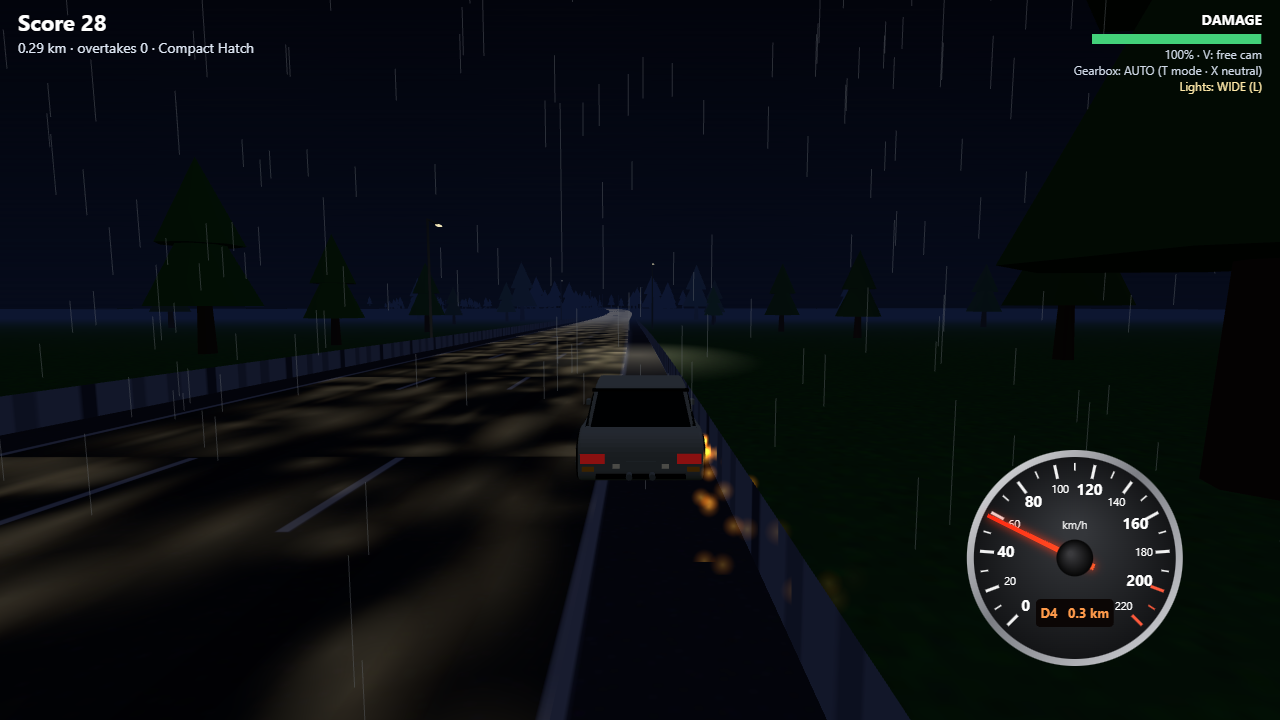
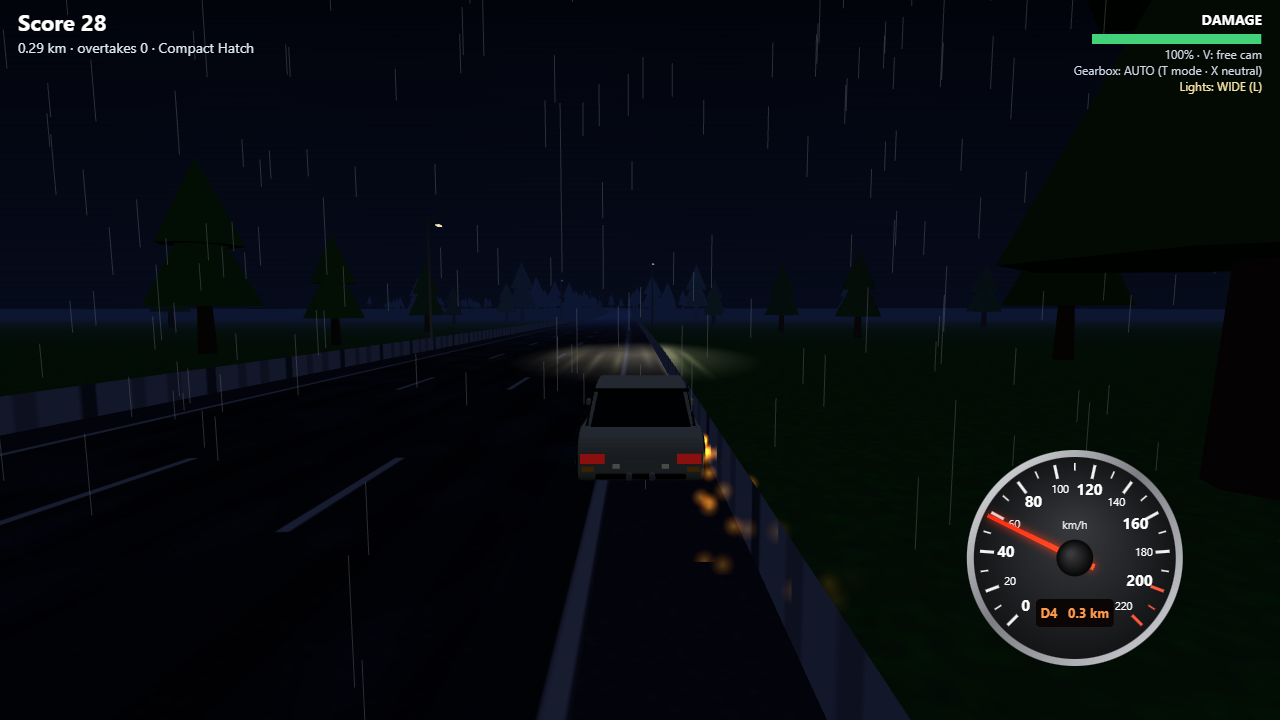
Add rim designs for Muscle GT, Sports Coupe, and Hypercar
- Implemented rim face drawing logic using canvas for three car models.
- Defined unique designs with properties such as shine, specular, brake, and caliper colors.
- Created a function to generate rim faces and corresponding materials for Three.js.

diff --git a/src/cars/rims.js b/src/cars/rims.js
@@ -1,0 +1,58 @@
+// Rim faces for the Muscle GT, Sports Coupe and Hypercar, drawn once on a canvas. The spokes are opaque and the gaps
+// transparent, so the brake disc and the brake caliper show through (the disc colour comes with the design). Each design is shared by every wheel that uses it.
+import * as THREE from '../three.js';
+
+const C = 128;                                                   // canvas centre; the face is 256 x 256 and the rim lip reaches r = 124
+const at = (r, a) => [C + r*Math.cos(a), C + r*Math.sin(a)];     // polar to canvas point
+function seg(x, [r0,a0], [r1,a1], w, col){ const [x0,y0]=at(r0,a0), [x1,y1]=at(r1,a1); x.strokeStyle=col; x.lineWidth=w; x.lineCap='round'; x.beginPath(); x.moveTo(x0,y0); x.lineTo(x1,y1); x.stroke(); }
+function ring(x, r, w, col){ x.strokeStyle=col; x.lineWidth=w; x.beginPath(); x.arc(C,C,r,0,Math.PI*2); x.stroke(); }
+function disc(x, r, col, cx=C, cy=C){ x.fillStyle=col; x.beginPath(); x.arc(cx,cy,r,0,Math.PI*2); x.fill(); }
+function nuts(x, r, size, col){ for (let i=0;i<5;i++){ const [px,py]=at(r, i*Math.PI*2/5 - Math.PI/2); disc(x,size,col,px,py); } }
+
+// brake: the colour of the disc behind the spokes; caliper: its colour, or null for none
+const DESIGNS = {
+  // Muscle GT: glossy blue barrel, gloss black face with five big round openings, no caliper showing
+  swirl: { shine:90, specular:0xaaaaaa, caliper:null, brake:'#1b1c20', draw(x){
+    disc(x,100,'#0c0c0e');
+    x.globalCompositeOperation = 'destination-out';                           // cut the five openings out of the black face
+    for (let i=0;i<5;i++){ const [px,py] = at(64, i*Math.PI*2/5 - Math.PI/2 + .1); disc(x,34,'#000',px,py); }
+    x.globalCompositeOperation = 'source-over';
+    ring(x,111,22,'#1e9bf0'); ring(x,120,3,'#9bdcff'); ring(x,100,2,'#0a6fb8');
+    disc(x,24,'#0c0c0e'); ring(x,24,2.5,'#c9cbd0'); nuts(x,15,3.5,'#3a3c42');
+  }},
+  // Sports Coupe: matte gold, five forked spokes, wide lip, centre-lock hub, no caliper showing
+  forged: { shine:25, specular:0x665533, caliper:null, brake:'#1b1c20', draw(x){
+    const GOLD = '#b8985a', HI = '#dcc183';
+    ring(x,114,18,GOLD); ring(x,123,3,HI); ring(x,102,3,HI);
+    for (let i=0;i<5;i++){
+      const a = i*Math.PI*2/5 - Math.PI/2;
+      seg(x,[20,a],[54,a],18,GOLD);
+      seg(x,[54,a],[108,a-.32],9,GOLD); seg(x,[54,a],[108,a+.32],9,GOLD);       // the fork
+    }
+    disc(x,30,GOLD); disc(x,21,'#111214'); ring(x,21,2.5,HI);
+  }},
+  // Hypercar: matte black, ten thin spokes that fork near the rim, steel brake disc, red caliper
+  twin: { shine:20, specular:0x333333, caliper:0xd01818, brake:'#7d8087', draw(x){
+    const BLACK = '#18191c', EDGE = '#3c3e44';
+    ring(x,116,14,BLACK); ring(x,122,2,EDGE); ring(x,100,4,BLACK);
+    for (let i=0;i<10;i++){
+      const a = i*Math.PI/5;
+      seg(x,[24,a],[70,a],9,BLACK);
+      seg(x,[70,a],[108,a-.17],6,BLACK); seg(x,[70,a],[108,a+.17],6,BLACK);   // the fork
+    }
+    disc(x,26,BLACK); ring(x,26,3,'#c9cbd0'); disc(x,14,'#2a2b2f');
+  }},
+};
+
+const built = {};
+export function rimFace(name){
+  if (built[name]) return built[name];
+  const d = DESIGNS[name], c = document.createElement('canvas'); c.width = c.height = 256;
+  d.draw(c.getContext('2d'));
+  const map = THREE.canvasTexture(c); map.anisotropy = 4;
+  return (built[name] = {
+    face: new THREE.MeshPhongMaterial({map, transparent:true, alphaTest:.15, shininess:d.shine, specular:d.specular}),
+    brake: new THREE.MeshLambertMaterial({color:d.brake}),
+    caliper: d.caliper === null ? null : new THREE.MeshLambertMaterial({color:d.caliper}),
+  });
+}

diff --git a/src/render/headlights.js b/src/render/headlights.js
@@ -18,10 +18,26 @@ const HL = (function(){
   const poolG = new THREE.Object3D(); scene.add(poolG);
   const poolMat = new THREE.MeshBasicMaterial({map:radTex('rgba(255,240,190,1)','rgba(255,240,190,0)'), transparent:true, opacity:.4, blending:THREE.AdditiveBlending, depthWrite:false});
   const pool = new THREE.Mesh(new THREE.PlaneGeometry(1,1), poolMat); pool.rotation.x = -Math.PI/2; pool.position.y = .06; pool.visible=false; poolG.add(pool);
+  // On a wet road the beam also leaves long thin reflections stretched along the road; they fade out towards every edge
+  // of the pool, so they only ever show inside the beam.
+  const glintTex = (() => {
+    const c = document.createElement('canvas'); c.width = 128; c.height = 256; const x = c.getContext('2d');
+    for (let i=0;i<26;i++){
+      const sx = 8+Math.random()*112, w = 1.5+Math.random()*4, y0 = Math.random()*120, len = 90+Math.random()*130;
+      const g = x.createLinearGradient(0,y0,0,y0+len); g.addColorStop(0,'rgba(255,236,190,0)'); g.addColorStop(.5,`rgba(255,236,190,${.25+Math.random()*.45})`); g.addColorStop(1,'rgba(255,236,190,0)');
+      x.fillStyle = g; x.fillRect(sx-w/2, y0, w, len);
+    }
+    x.globalCompositeOperation = 'destination-in';
+    const m = x.createRadialGradient(64,128,0,64,128,128); m.addColorStop(0,'#fff'); m.addColorStop(.6,'rgba(255,255,255,.6)'); m.addColorStop(1,'rgba(255,255,255,0)');
+    x.setTransform(.5,0,0,1,32,0); x.fillStyle = m; x.fillRect(0,0,256,256);          // squashed to an ellipse that fits the 128 x 256 canvas
+    const t = THREE.canvasTexture(c); return t;
+  })();
+  const glintMat = new THREE.MeshBasicMaterial({map:glintTex, transparent:true, opacity:0, blending:THREE.AdditiveBlending, depthWrite:false});
+  const glint = new THREE.Mesh(new THREE.PlaneGeometry(1,1), glintMat); glint.rotation.x = -Math.PI/2; glint.position.y = .08; glint.visible = false; poolG.add(glint);
   const glowTex = radTex('rgba(255,246,210,1)','rgba(255,246,210,0)');
   const glows = [0,1].map(()=>{ const sp = new THREE.Sprite(new THREE.SpriteMaterial({map:glowTex, transparent:true, blending:THREE.AdditiveBlending, depthWrite:false, opacity:.8})); sp.visible=false; scene.add(sp); return sp; });
   const spots = [0,1].map(()=>{ const l = new THREE.SpotLight(0xfff0cc, 0, 60, .6, .6, 1); scene.add(l, l.target); return l; });
-  return {cones, poolG, pool, poolMat, glows, spots};
+  return {cones, poolG, pool, poolMat, glint, glintMat, glows, spots};
 })();
 const _hv = new THREE.Vector3();
 export function updateHeadlights(Hc, sl){
@@ -49,4 +65,7 @@ export function updateHeadlights(Hc, sl){
   }
   HL.pool.visible = on;
   if (on){ placeOn(HL.poolG, S.s+P.poolD, S.d, S.psi); HL.pool.scale.set(P.poolW, P.poolL, 1); HL.poolMat.opacity = P.poolO; }
+  const wet = S.rain*(1-S.mist)*S.dark;                                                // reflections need rain and a dark sky
+  HL.glint.visible = on && wet > .02;
+  if (HL.glint.visible){ HL.glint.scale.set(P.poolW*.9, P.poolL*1.25, 1); HL.glintMat.opacity = .75*wet; }
 }

diff --git a/src/world/track.js b/src/world/track.js
@@ -55,9 +55,11 @@ const rbRoad = makeRibbon(mk(roadTex)), rbGL = makeRibbon(mk(grassTex)), rbGR = 
 const sheenTex = makeTex(128,256,(x,w,h)=>{
   x.fillStyle='#000'; x.fillRect(0,0,w,h);
   for (let i=0;i<70;i++){
-    const cx=Math.random()*w, cy=Math.random()*h, rw=3+Math.random()*14, rh=10+Math.random()*50;
-    const g=x.createRadialGradient(cx,cy,0,cx,cy,rh); g.addColorStop(0,`rgba(255,255,255,${.25+Math.random()*.5})`); g.addColorStop(1,'rgba(255,255,255,0)');
-    x.save(); x.translate(cx,cy); x.scale(rw/rh,1); x.translate(-cx,-cy); x.fillStyle=g; x.fillRect(cx-rh,cy-rh,rh*2,rh*2); x.restore();
+    const cx=Math.random()*w, y0=Math.random()*h, rw=3+Math.random()*14, rh=10+Math.random()*50, a=.25+Math.random()*.5;
+    for (const cy of [y0-h, y0, y0+h]){                    // drawn again one tile up and down so the texture repeats without a seam
+      const g=x.createRadialGradient(cx,cy,0,cx,cy,rh); g.addColorStop(0,`rgba(255,255,255,${a})`); g.addColorStop(1,'rgba(255,255,255,0)');
+      x.save(); x.translate(cx,cy); x.scale(rw/rh,1); x.translate(-cx,-cy); x.fillStyle=g; x.fillRect(cx-rh,cy-rh,rh*2,rh*2); x.restore();
+    }
   }
 }, false);
 const sheenMat = new THREE.MeshBasicMaterial({map:sheenTex, vertexColors:true, transparent:true, blending:THREE.AdditiveBlending, depthWrite:false, fog:false, side:THREE.DoubleSide});
@@ -73,22 +75,16 @@ rbSheen.m.visible = false;
 }
 
 // These materials ignore lights, so darkness (0 day .. 1 night) is a colour multiplier on their textures
-// (linear values: a dim, blue moonlit ground). Rain darkens the road (wet) more than the grass.
+// (linear values: a dim, blue moonlit ground). Rain darkens the road (wet) more than the grass, and the sheen
+// reflects the horizon sky (fog colour), so it fades to nothing at night; mist hides it.
 export function setGroundShade(dark, rain, mist){
   const overcast = Math.max(rain*.8, mist), grass = 1 - .25*overcast;
   for (const rb of [rbRoad,rbGL,rbGR,rbRL,rbRR]){
     const k = (rb === rbRoad ? 1 - .45*rain : grass) * (rb === rbRoad ? 1 - .15*mist : 1);
     rb.m.material.color.setRGB((1+(.018-1)*dark)*k, (1+(.023-1)*dark)*k, (1+(.056-1)*dark)*k);
   }
-}
-// The sheen reflects the horizon sky; at night, with the headlights on, it also reflects their warm light down the beam.
-// Called every frame because the L key changes it without any change in the weather.
-const HEADLIGHT_GLINT = new THREE.Color(0xffe6a8);
-export function setSheen(dark, rain, mist, headlightsOn){
   rbSheen.m.visible = rain > .01;
-  sheenMat.color.copy(scene.fog.color);
-  if (headlightsOn){ const k = .55*dark; sheenMat.color.r += HEADLIGHT_GLINT.r*k; sheenMat.color.g += HEADLIGHT_GLINT.g*k; sheenMat.color.b += HEADLIGHT_GLINT.b*k; }
-  sheenMat.color.multiplyScalar(.9*rain*(1-mist));
+  sheenMat.color.copy(scene.fog.color).multiplyScalar(.9*rain*(1-mist));
 }
 function setRow(rb,k,a,b,c,d,e,f,u0,u1,v){
   const p=rb.pos; let o=k*6; p[o]=a;p[o+1]=b;p[o+2]=c;p[o+3]=d;p[o+4]=e;p[o+5]=f;

diff --git a/src/cars/build-car.js b/src/cars/build-car.js
@@ -3,12 +3,16 @@
 import * as THREE from '../three.js';
 import { extrudeProfile, taperX, lerpN, bez, roundRect, ribbon } from './shapes.js';
 import { addBonnetUnderside, addEngineBay, addHyperEngine } from './engine-bay.js';
+import { rimFace } from './rims.js';
 
 const _tireG = {}, _tireM = new THREE.MeshLambertMaterial({color:0x0b0b0d});
-function addWheel(g, sx, z, hw, wr, ww, rimCol){
+const RIM_DESIGN = {muscle:'swirl', coupe:'forged', super:'twin'};      // the other cars keep the plain five-spoke rim
+function addWheel(g, sx, z, hw, wr, ww, rimCol, design){
   const key = wr+'_'+ww;
   if (!_tireG[key]){
     _tireG[key] = {
+      face: new THREE.CircleGeometry(wr*.88,48).rotateY(Math.PI/2),     // rim face, normal along +x
+      caliper: new THREE.BoxGeometry(.014, wr*.3, wr*.42),
       tire: new THREE.CylinderGeometry(wr,wr,ww,24).rotateZ(Math.PI/2),
       disc: new THREE.CylinderGeometry(wr*.7,wr*.7,ww+.02,20).rotateZ(Math.PI/2),
       cap : new THREE.CylinderGeometry(wr*.13,wr*.13,ww+.04,10).rotateZ(Math.PI/2),
@@ -19,8 +23,13 @@ function addWheel(g, sx, z, hw, wr, ww, rimCol){
   const dark = new THREE.MeshLambertMaterial({color:0x1b1c20});
   const o = new THREE.Group(); o.position.set(sx*hw, wr, z);
   const w = new THREE.Group(); o.add(w);          // w spins, o steers
-  w.add(new THREE.Mesh(G.tire,_tireM), new THREE.Mesh(G.disc,dark), new THREE.Mesh(G.cap,rimM));
-  for (let i=0;i<5;i++){
+  const R = design && rimFace(design);
+  w.add(new THREE.Mesh(G.tire,_tireM), new THREE.Mesh(G.disc, R ? R.brake : dark), new THREE.Mesh(G.cap,rimM));
+  if (design){
+    const face = new THREE.Mesh(G.face, R.face);
+    face.position.x = sx*(ww/2+.026); if (sx<0) face.rotation.y = Math.PI; w.add(face);
+    if (R.caliper){ const cal = new THREE.Mesh(G.caliper, R.caliper); cal.position.set(sx*(ww/2+.017), wr*.3, wr*.32); o.add(cal); }   // on o: it steers but does not spin
+  } else for (let i=0;i<5;i++){
     const a = new THREE.Group(); a.rotation.x = i*Math.PI*2/5;
     const sp = new THREE.Mesh(G.spoke, rimM); sp.position.set(sx*(ww/2+.012), wr*.34, 0); a.add(sp); w.add(a);
   }
@@ -144,7 +153,7 @@ export function buildCar(sp, color, opt){
   const archR = Math.min(wr+.045, yT-nd*.5-(wr+.02)-.01);
   for (const sx of [-1,1]) for (const sz of [-1,1]){
     const hw = sz<0 ? hwR : hwF;
-    const wh = addWheel(g, sx, sz*wz, hw, wr, ww, sp.rim); wh.front = sz>0; wheels.push(wh);
+    const wh = addWheel(g, sx, sz*wz, hw, wr, ww, sp.rim, RIM_DESIGN[k]); wh.front = sz>0; wheels.push(wh);
     const a = new THREE.Mesh(new THREE.CircleGeometry(archR,22), M(0x050505));
     a.position.set(sx*(hw+.06+.012), wr+.02, sz*wz); a.rotation.y = sx*Math.PI/2; g.add(a);
   }

diff --git a/src/audio/engine-sound.js b/src/audio/engine-sound.js
@@ -8,7 +8,7 @@ const SND = {   // t: waveforms, g: osc gains, m: frequency multipliers, cb/ck/c
   sedan :{t:['triangle','sawtooth','sine'],     g:[.45,.12,.40], m:[2,1,4],   cb:350,ck:.28,ct:500,  vol:.75, drive:3,  q:.8,  lf:12, rough:.02},   // smooth, quiet 4-cyl
   muscle:{t:['sawtooth','square','triangle'],   g:[.45,.25,.35], m:[1,.5,2],   cb:180,ck:.17,ct:700,  vol:1.0, drive:14, q:1.6, lf:26, rough:.09, pop:{boom:[150,45], crack:[1800,3000], tail:4, body:800}},   // deep V8 burble
   coupe :{t:['sawtooth','square','triangle'],   g:[.38,.12,.30], m:[2,1,4],   cb:450,ck:.38,ct:1300, vol:.85, drive:8,  q:1.2, lf:15, rough:.03, pop:{boom:[230,70], crack:[3000,5000], tail:5, body:1200}},   // raspy inline-6
-  super :{t:['sawtooth','sawtooth','square'],   g:[.35,.25,.12], m:[2,1,6],   cb:650,ck:.50,ct:1700, vol:.9,  drive:10, q:1.4, lf:11, rough:.02, pop:{boom:[280,90], crack:[3500,6000], tail:3, body:1600}},   // high-revving V8 scream
+  super :{t:['sawtooth','sawtooth','square'],   g:[.42,.30,.10], m:[1,.5,2],  cb:380,ck:.22,ct:1100, vol:.9,  drive:16, q:.9, lf:34, rough:.08, pop:{boom:[280,90], crack:[3500,6000], tail:3, body:1600}},   // high-revving flat-plane V8: a raspy wail, not a pure tone (a square at 6x the pitch, a wide-open filter and no roughness made a beep)
 };
 const MASTER_GAIN = .32;   // the mix level that sounds right at the volume setting 1
 export const AU = {

diff --git a/sw.js b/sw.js
@@ -1,8 +1,8 @@
 /* Highway Showdown - service worker: makes the game work offline once it has been opened. */
-const CACHE = 'highway-dash-v13';   // bumped: exhaust bang sounds per car (audio/effects.js, engine-sound.js)
+const CACHE = 'highway-dash-v15';   // bumped: per-car rims (rims.js new), exhaust bang sounds, wet headlight glint, Hypercar engine voice
 const ASSETS = ['./car-game.html', './lib/three/three.module.js', './lib/three/three.core.js', './manifest.webmanifest', './icons/icon-192.png', './icons/icon-512.png',
   './src/main.js', './src/three.js', './src/config.js', './src/state.js', './src/game.js',
-  './src/cars/specs.js', './src/cars/shapes.js', './src/cars/build-car.js', './src/cars/engine-bay.js',
+  './src/cars/specs.js', './src/cars/shapes.js', './src/cars/build-car.js', './src/cars/engine-bay.js', './src/cars/rims.js',
   './src/world/road.js', './src/world/track.js',
   './src/sim/step.js', './src/sim/driving.js', './src/sim/gearbox.js', './src/sim/collisions.js', './src/sim/traffic.js', './src/sim/feedback.js',
   './src/render/scene.js', './src/render/frame.js', './src/render/headlights.js', './src/render/rain.js', './src/render/effects.js',

diff --git a/src/render/frame.js b/src/render/frame.js
@@ -3,7 +3,7 @@
 import * as THREE from '../three.js';
 import { renderer, scene, camera, disposeObj, applyAtmosphere } from './scene.js';
 import { updateRain } from './rain.js';
-import { updateTrack, placeScenery, setGroundShade, setSheen } from '../world/track.js';
+import { updateTrack, placeScenery, setGroundShade } from '../world/track.js';
 import { buildCar, glowK } from '../cars/build-car.js';
 import { updateParts, updateFlames } from './effects.js';
 import { updateHeadlights } from './headlights.js';
@@ -57,9 +57,7 @@ function updateSky(dt){
   if (Math.abs(S.dark - darkShown) + Math.abs(S.rain - rainShown) + Math.abs(S.mist - mistShown) > .004){
     darkShown = S.dark; rainShown = S.rain; mistShown = S.mist;
     applyAtmosphere(darkShown, rainShown, mistShown); setGroundShade(darkShown, rainShown, mistShown);
-  }
-  setSheen(S.dark, S.rain, S.mist, S.started && S.lights > 0);
-}
+  }}
 export function render3D(dt){
   updateSky(dt);
   const p = placeOn(playerMesh, S.s, S.d, S.psi);

diff --git a/docs/roadmap.md b/docs/roadmap.md
@@ -14,7 +14,7 @@
 **Last updated:** 2026-11-14
 **Tracking:** 39 tasks · 4 done · 0 in progress · 0 waiting · 36 todo
 
-**Current position (2026-11-14):** the Three.js upgrade and the split into ES modules (`src/`) are both done. All 9 checks in `tests/` pass, and the module version replays a scripted drive with the same state as the single file. The sRGB colour pipeline and physical light units are in (day and night checked in screenshots; all 9 checks passed before the final lamp edits). The coupe's rear band and headlamps now use the unlit lamp materials so they show at night. Everything is committed, including the settings screen and the rename of the game to Highway Showdown (cache `highway-dash-v9`); both were tried by hand and approved on 2026-11-14. Night mode (K) is play-tested and done, and K now cycles day, night and an automatic day/night cycle (240 s per day, `DAY_LENGTH` in `src/render/frame.js`; cache `highway-dash-v10`). Brake and reverse lights are done too. Internal ids (`highway-dash:v1:settings` storage key, `Play-Highway-Dash.bat`) keep the old name on purpose. The coupe's front amber indicators are still static and dull. Weather is built (J key, rain sound, night sheen, cache `highway-dash-v12`), waiting for a hand look. The checks "T, X, Z, C, L, B toggle" and "player never overlaps an NPC car" fail on the last commit too, before the weather work; they need their own look.
+**Current position (2026-11-14):** the Three.js upgrade and the split into ES modules (`src/`) are both done. All 9 checks in `tests/` pass, and the module version replays a scripted drive with the same state as the single file. The sRGB colour pipeline and physical light units are in (day and night checked in screenshots; all 9 checks passed before the final lamp edits). The coupe's rear band and headlamps now use the unlit lamp materials so they show at night. Everything is committed, including the settings screen and the rename of the game to Highway Showdown (cache `highway-dash-v9`); both were tried by hand and approved on 2026-11-14. Night mode (K) is play-tested and done, and K now cycles day, night and an automatic day/night cycle (240 s per day, `DAY_LENGTH` in `src/render/frame.js`; cache `highway-dash-v10`). Brake and reverse lights are done too. Internal ids (`highway-dash:v1:settings` storage key, `Play-Highway-Dash.bat`) keep the old name on purpose. The coupe's front amber indicators are still static and dull. The Muscle GT, Coupe and Hypercar now have their own rims (gunmetal web with red calipers, forked gold, polished chrome Y with blue calipers; `src/cars/rims.js`, close-ups in `previews/rim-*.png`); the Hatch and Sedan keep the plain spokes. Weather is built (J key, rain sound, night sheen, cache `highway-dash-v12`), waiting for a hand look. The checks "T, X, Z, C, L, B toggle" and "player never overlaps an NPC car" fail on the last commit too, before the weather work; they need their own look.
 
 ## Where we are (done)
 - 5 cars with their own shapes, paint and engine sound: Compact Hatch, Family Sedan, Muscle GT, Sports Coupe, Hypercar.
@@ -42,7 +42,7 @@
 | **Night mode** (key K: day, night, automatic cycle) | M | STD | Done (2026-11-14; automatic cycle built, 240 s per day, tried by hand and approved) | Makes headlights, indicators, brake lights and flames really show. Do after the Three.js upgrade |
 | Adopt Three.js's sRGB colour pipeline and physical light units | M | STD | Done (2026-11-14) | sRGB on, canvas textures tagged, lights retuned so day and night look like before (checked in screenshots); no tone mapping. Needs a hand look |
 | Brake lights and reverse lights that react | S | STD | Done (2026-11-14) | Tail lamps dim, bright on brake/handbrake and when traffic slows; white reverse lamps light in reverse |
-| Weather: rain, fog, wet road shine | M | STD | Built, needs a hand look (2026-11-14) | J cycles clear, rain, fog; fades in over a few seconds. Rain greys the sky, shortens the view, darkens the road, adds a sheen layer on it and falling streaks (`src/render/rain.js`). Fog closes the view to about 150 m. Checked in screenshots at 1280×720 and 800×450 (`previews/weather-*.png`) and by a scripted check of the fog distance. Rain also hisses on the roof and the tyres get louder (`src/audio/engine-sound.js`), and at night the sheen picks up warm headlight glints when the lights are on (`setSheen` in `src/world/track.js`; screenshots `previews/weather-rain-night-*.png`). Full rain also takes 30% off braking and cornering grip (`WET_GRIP_LOSS` in `src/sim/driving.js`; fog does not). A scripted check shows braking from 30 m/s sheds 5.7 m/s in .75 s wet against 7.8 dry. Not checked: how it feels (the 30% is a first guess, tune by hand) and the sound level, try both by ear |
+| Weather: rain, fog, wet road shine | M | STD | Done (hand-tried and approved 2026-11-15) | J cycles clear, rain, fog; fades in over a few seconds. Rain greys the sky, shortens the view, darkens the road, adds a sheen layer on it and falling streaks (`src/render/rain.js`). Fog closes the view to about 150 m. Checked in screenshots at 1280×720 and 800×450 (`previews/weather-*.png`) and by a scripted check of the fog distance. Rain also hisses on the roof and the tyres get louder (`src/audio/engine-sound.js`), and at night, in rain, the headlight beam leaves thin warm streaks on the road, only inside the beam (`glint` in `src/render/headlights.js`; the sheen layer itself follows the fog colour, so it is dark at night; screenshots `previews/weather-rain-night-*.png`). Full rain also takes 30% off braking and cornering grip (`WET_GRIP_LOSS` in `src/sim/driving.js`; fog does not). A scripted check shows braking from 30 m/s sheds 5.7 m/s in .75 s wet against 7.8 dry. Not checked: how it feels (the 30% is a first guess, tune by hand) and the sound level, try both by ear |
 | Scenery: mountains, clouds, bushes, rocks, buildings, bridges, tunnels | M | STD | Todo | Grass is flat and plain right now |
 | Skid marks and tyre smoke | M | STD | Todo | |
 | Visible dents / scratches on the body | L | STD | Todo | Damage only darkens the paint now |

diff --git a/docs/architecture.md b/docs/architecture.md
@@ -78,6 +78,7 @@ src/
   cars/shapes.js         geometry helpers (extruded profiles, taper, rounded rects, stripes)
   cars/build-car.js      buildCar: body, bonnet, cabin, wheels, lamps, flames, per-car details
   cars/engine-bay.js     bonnet underside and engine bays (front-engined cars, Hypercar)
+  cars/rims.js           rim faces (canvas textures with cut-out gaps) and calipers for the Muscle GT, Coupe and Hypercar
   world/road.js          road shape: curvature, hills, trackAt, placeOn (no Three.js objects)
   world/track.js         road, grass and rail ribbons, trees and lamps
   sim/step.js            one simulation step: drive -> gearbox -> traffic -> score -> damage smoke
